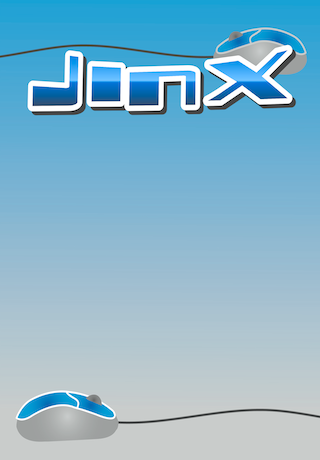
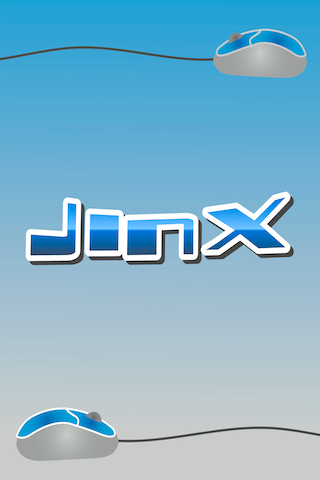
Fixed bugs where backdrop did not present well with autoration.

Changed region(s): [[0.0625, 0.0913, 0.9375, 0.2739], [0.0625, 0.3957, 0.9375, 0.5783], [0.1875, 0.8522, 0.25, 0.8826]]

diff --git a/source/Classes/RootViewController.m b/source/Classes/RootViewController.m
@@ -10,8 +10,60 @@
 #import "CCCJinxAppLoadLogic.h"
 #import "CCCChatViewController.h"
 
+#define M_PI   3.14159265358979323846264338327950288   /* pi */
+// Our conversion definition
+#define DEGREES_TO_RADIANS(angle) ((angle / 180.0) * M_PI)
+
 @implementation RootViewController
-@synthesize buddyList;
+@synthesize buddyList, backgroundImage, backgroundImageLandscape;
+
+#pragma mark -
+#pragma mark Orientation Methods
+
+-(void) updateView
+{
+	CGFloat rotation = 0.0f;
+	BOOL isLandscape = NO;
+	switch ([UIDevice currentDevice].orientation) {
+		case UIDeviceOrientationLandscapeLeft:
+			rotation = 0.0;
+			isLandscape = YES;
+			break;
+		case UIDeviceOrientationLandscapeRight:
+			rotation = 180.0f;
+			isLandscape = YES;
+			break;
+		default:
+			break;
+	}
+	if (isLandscape) {
+		[UIView beginAnimations:@"switch-background" context:nil];
+		backgroundImage.alpha = 0.0f;
+		backgroundImageLandscape.alpha = 1.0f;
+		backgroundImageLandscape.transform = CGAffineTransformMakeRotation(DEGREES_TO_RADIANS(rotation));
+		[UIView commitAnimations];
+	} else {
+		[UIView beginAnimations:@"switch-background" context:nil];
+		backgroundImage.alpha = 1.0f;
+		backgroundImageLandscape.alpha = 0.0f;
+		if( [UIDevice currentDevice].orientation == UIDeviceOrientationPortraitUpsideDown ) {
+			backgroundImage.transform = CGAffineTransformMakeRotation(DEGREES_TO_RADIANS(-180.0f));
+			backgroundImage.frame = CGRectMake(0.0f, 0.0f, 320.0f, 460.0f);
+		} else {
+			backgroundImage.transform = CGAffineTransformMakeRotation(DEGREES_TO_RADIANS(0.0f));
+			backgroundImage.frame = CGRectMake(0.0f, 20.0f, 320.0f, 460.0f);
+		}
+
+		[UIView commitAnimations];
+	}
+}
+
+- (void)orientationChanged:(NSNotification *)notification
+{
+    // We must add a delay here, otherwise we'll swap in the new view
+	// too quickly and we'll get an animation glitch
+    [self performSelector:@selector(updateView) withObject:nil afterDelay:0];
+}
 
 #pragma mark -
 #pragma mark View lifecycle
@@ -29,7 +81,10 @@
 
 - (void)viewDidLoad {
     [super viewDidLoad];
-
+	[[UIDevice currentDevice] beginGeneratingDeviceOrientationNotifications];
+	[[NSNotificationCenter defaultCenter] addObserver:self selector:@selector(orientationChanged:)
+												 name:UIDeviceOrientationDidChangeNotification object:nil];
+	
     // Uncomment the following line to display an Edit button in the navigation bar for this view controller.
     // self.navigationItem.rightBarButtonItem = self.editButtonItem;
 }
@@ -45,11 +100,12 @@
     [super viewDidAppear:animated];
 }
 */
-/*
+
 - (void)viewWillDisappear:(BOOL)animated {
 	[super viewWillDisappear:animated];
+    [[NSNotificationCenter defaultCenter] removeObserver:self name:UIKeyboardWillShowNotification object:nil];
 }
-*/
+
 /*
 - (void)viewDidDisappear:(BOOL)animated {
 	[super viewDidDisappear:animated];
@@ -59,7 +115,7 @@
  // Override to allow orientations other than the default portrait orientation.
 - (BOOL)shouldAutorotateToInterfaceOrientation:(UIInterfaceOrientation)interfaceOrientation {
 	// Return YES for supported orientations.
-	return (interfaceOrientation != UIInterfaceOrientationPortraitUpsideDown);
+	return YES;
 }
 
 #pragma mark -

diff --git a/source/Other/SharedFunctions.m b/source/Other/SharedFunctions.m
@@ -46,7 +46,7 @@ NSString* readStringFromFile(NSString *aFilePath)
 		return @"";
 	} else {
 		NSError *error = nil;
-		NSString *aString = [NSString stringWithContentsOfFile:aFilePath encoding:NSUTF8StringEncoding error:error];
+		NSString *aString = [NSString stringWithContentsOfFile:aFilePath encoding:NSUTF8StringEncoding error:&error];
 		raiseApplicationExceptionIfError(error, @"ConversationReadException", @"Jinx could not restore your prior conversation.");
 		return aString;
 	}

diff --git a/source/Classes/RootViewController.h b/source/Classes/RootViewController.h
@@ -10,8 +10,12 @@
 
 @interface RootViewController : UITableViewController {
 	NSArray *buddyList;
+	UIImageView *backgroundImage;
+	UIImageView *backgroundImageLandscape;
 }
 
 @property (nonatomic, retain) NSArray *buddyList;
+@property (nonatomic, retain) IBOutlet UIImageView *backgroundImage;
+@property (nonatomic, retain) IBOutlet UIImageView *backgroundImageLandscape;
 
 @end
